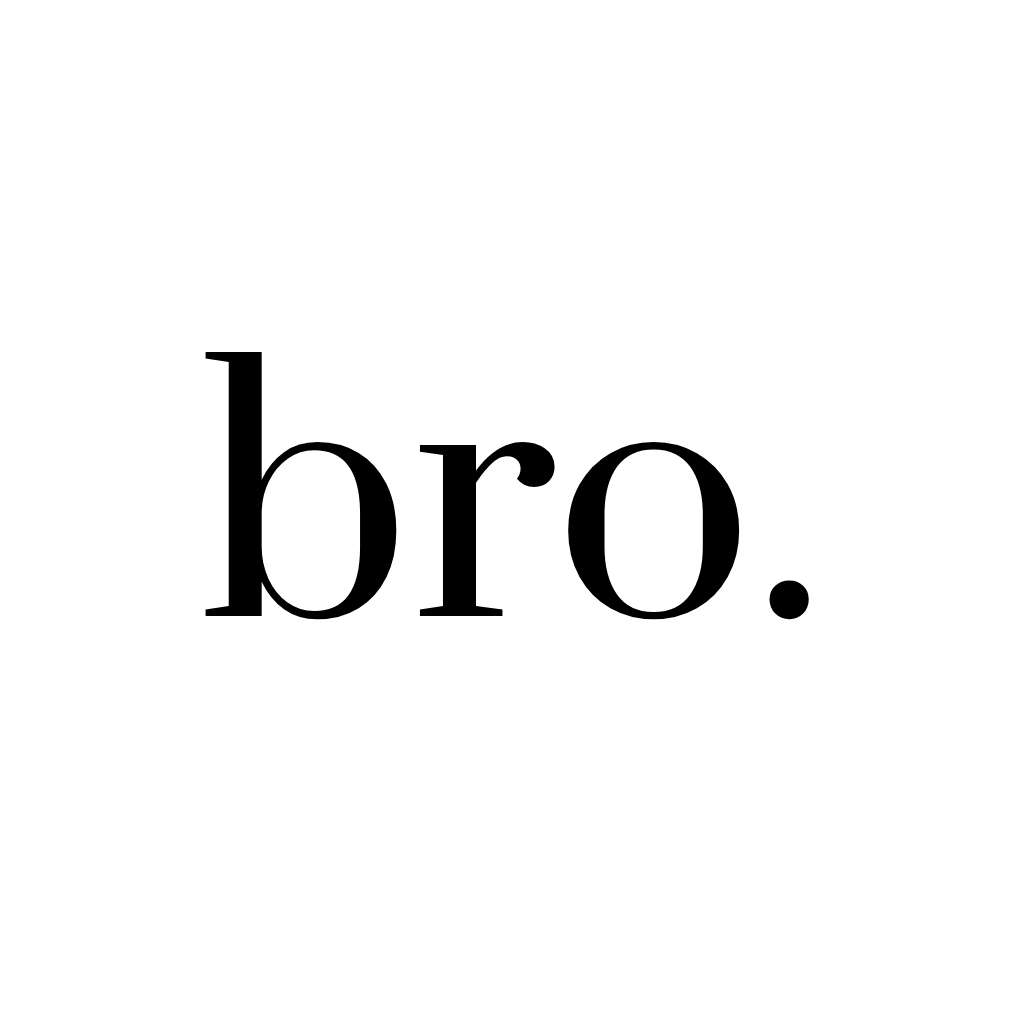
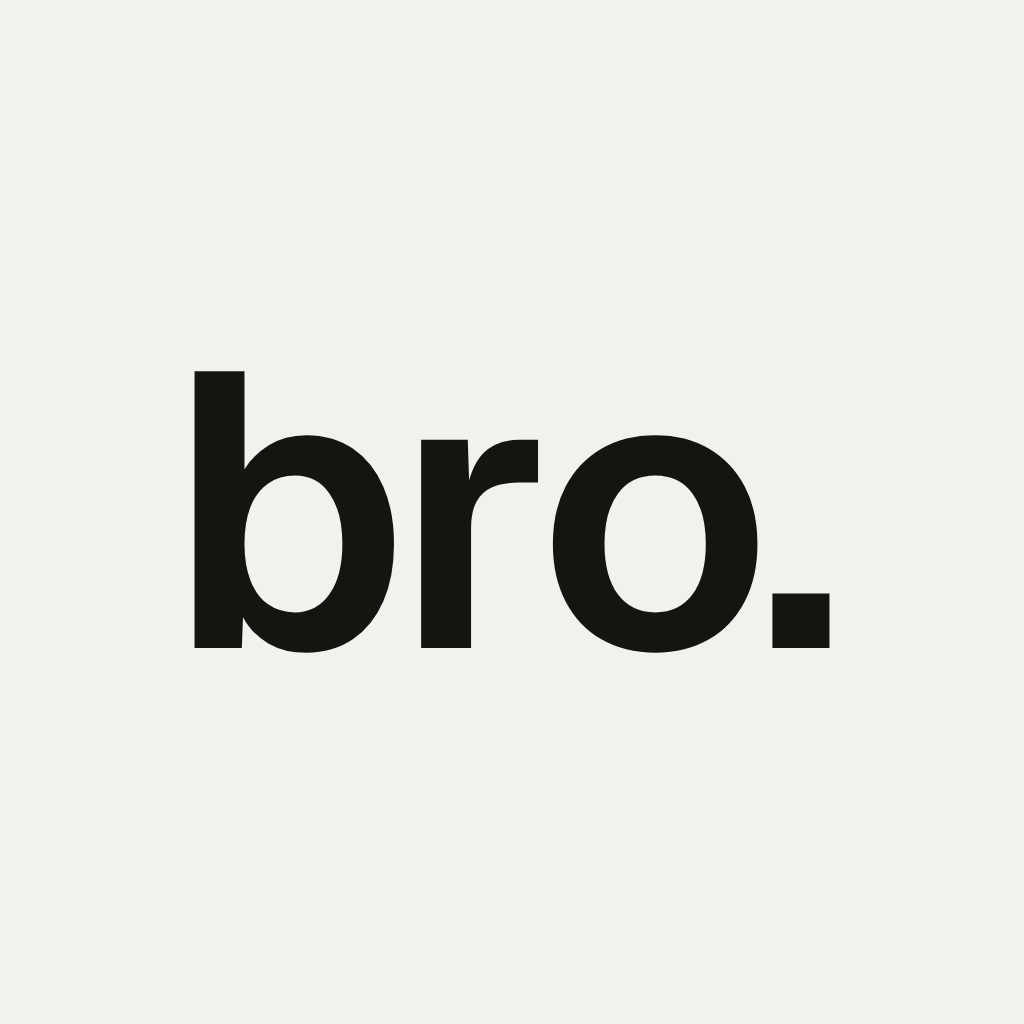
Сайт в поиске — «твой последний ИИ-агент», иконка вкладки — новый логотип
Заголовок сайта во вкладке и в поиске теперь как на лендинге: «bro — твой
последний ИИ-агент». Иконка вкладки, иконка на экране «Домой» и картинка
превью ссылки перерисованы новым логотипом — «bro.» шрифтом Geist SemiBold
на тёплой бумаге вместо прежнего засечного.

Claude-Session: https://claude.ai/code/session_0139tQExcsov9cSwzH3Zrote

Changed region(s): [[0.1875, 0.3438, 0.8125, 0.6562]]

diff --git a/e2e/public/landing.e2e.ts b/e2e/public/landing.e2e.ts
@@ -10,7 +10,7 @@ describe("public pages", { tags: ["smoke"] }, () => {
     await app.open("/");
     // The heading is for screen readers only (`sr-only`).
     await expect(
-      screen.getByRole("heading", "bro — твой личный ИИ-агент", { level: 1 })
+      screen.getByRole("heading", "bro — твой последний ИИ-агент", { level: 1 })
     ).toBeAttached();
 
     await screen

diff --git a/app/(public)/page.tsx b/app/(public)/page.tsx
@@ -19,7 +19,7 @@ const body = Geist({
   subsets: ["cyrillic", "latin"],
   variable: "--font-landing-body",
 });
-const title = "bro — твой личный ИИ-агент";
+const title = "bro — твой последний ИИ-агент";
 
 export const metadata: Metadata = {
   title: { absolute: title },

diff --git a/app/layout.tsx b/app/layout.tsx
@@ -24,7 +24,7 @@ const geist = Geist({
 export const metadata: Metadata = {
   metadataBase: new URL(applicationOrigin()),
   title: {
-    default: "bro — твой личный ИИ-агент",
+    default: "bro — твой последний ИИ-агент",
     template: "bro — %s",
   },
   description:
